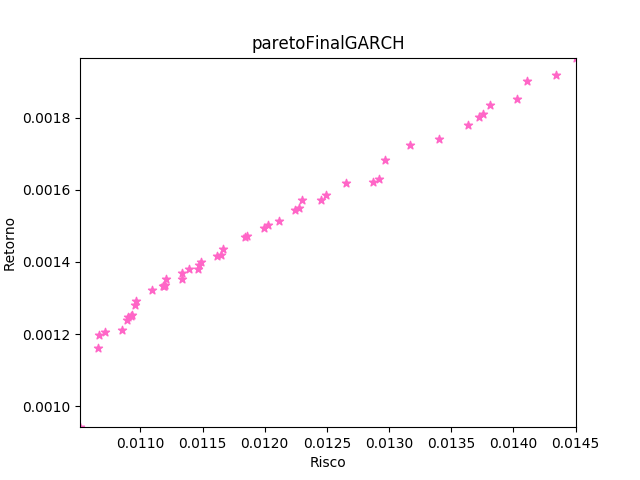
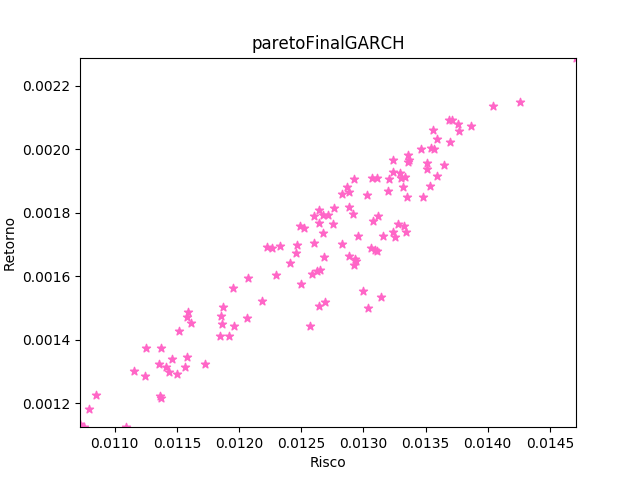
alteracoes nos anos do nsga direto

diff --git a/direto/nsga2.py b/direto/nsga2.py
@@ -148,24 +148,24 @@ class Carteira:
                 
 def inicializa():    
     
-    global listaAtivos_2015_2018
-    global lista_ibovespa_2015_2018
-    global listaAtivos_2019
-    global lista_ibovespa_2019
+    global lista_ativos_2015_2016
+    global lista_ibovespa_2015_2016
+    global lista_ativos_2017_2019
+    global lista_ibovespa_2017_2019
     nomeAtivos = []
     primeira = True
-    flag2019 = False
+    flag2017_2019 = False
 
     with open("ativos.csv", "r+") as f:
         linhas = f.readlines()
-        listaCotacoes_2015_2018 = []
-        listaCotacoes_2019 = []
+        listaCotacoes_2015_2016 = []
+        listaCotacoes_2017_2019 = []
         
         #PERCORRE LINHAS
         for linha in linhas:
             valores = linha.split(",")
-            if(valores[0] == '01/01/2019'):
-                flag2019 = True
+            if(valores[0] == '01/01/2017'):
+                flag2017_2019 = True
                 primeira = True
             j=-1
             #PERCORRE CADA ATIVO
@@ -176,31 +176,31 @@ def inicializa():
                         nomeAtivos.append(nome)
                     else:
                         nomeAtivos.append(valor)
-                elif flag2019:
+                elif flag2017_2019:
                     if primeira:
                         for i in range(len(nomeAtivos)):
-                            listaCotacoes_2019.append([])
+                            listaCotacoes_2017_2019.append([])
                         primeira = False
                     elif(valor != valores[0] )and valor != '-' and valor != '-\n':
-                        listaCotacoes_2019[j].append(float(valor))
+                        listaCotacoes_2017_2019[j].append(float(valor))
                 else:
                     if primeira and valor != 'CODIGOS':
                         for i in range(len(nomeAtivos)):
-                            listaCotacoes_2015_2018.append([])
+                            listaCotacoes_2015_2016.append([])
                         primeira = False
                     elif(valor != valores[0] )and valor != '-' and valor != '-\n':
-                        listaCotacoes_2015_2018[j].append(float(valor))
+                        listaCotacoes_2015_2016[j].append(float(valor))
                 j+=1
                 
 
         for i in range(len(nomeAtivos)):
             codigoAtivo = nomeAtivos[i]
             if(codigoAtivo == "IBOV"):
-                lista_ibovespa_2015_2018 = copy.copy(listaCotacoes_2015_2018[i])
-                lista_ibovespa_2019 = copy.copy(listaCotacoes_2019[i])
+                lista_ibovespa_2015_2016 = copy.copy(listaCotacoes_2015_2016[i])
+                lista_ibovespa_2017_2019 = copy.copy(listaCotacoes_2017_2019[i])
             else:
-                listaAtivos_2015_2018.append(Ativo(codigoAtivo,listaCotacoes_2015_2018[i]))
-                listaAtivos_2019.append(Ativo(codigoAtivo,listaCotacoes_2019[i]))
+                lista_ativos_2015_2016.append(Ativo(codigoAtivo,listaCotacoes_2015_2016[i]))
+                lista_ativos_2017_2019.append(Ativo(codigoAtivo,listaCotacoes_2017_2019[i]))
     
     
     # lista_ativos_semestral = []
@@ -210,14 +210,14 @@ def inicializa():
     # i=0
     # for i in range(8):
     #     lista_ativos_semestral.append([])
-    #     for j in range(len(listaAtivos_2015_2018[0].getCotacoes())):
-    #         lista_ativos_semestral[i] = copy.copy(listaAtivos_2015_2018[][i*123:((i+1)*123)-1])
+    #     for j in range(len(lista_ativos_2015_2016[0].getCotacoes())):
+    #         lista_ativos_semestral[i] = copy.copy(lista_ativos_2015_2016[][i*123:((i+1)*123)-1])
     #         cont_aux = ((i+1)*123)
     #     # index+=1
     
     # i-=1
-    # for j in range(cont_aux, len(listaAtivos_2015_2018)):
-    #     lista_ativos_semestral[i].append(listaAtivos_2015_2018[j])
+    # for j in range(cont_aux, len(lista_ativos_2015_2016)):
+    #     lista_ativos_semestral[i].append(lista_ativos_2015_2016[j])
 
     # print("EAI")
     # print(len(lista_ativos_semestral))
@@ -230,19 +230,19 @@ def populacao_inicial():
     for j in range(TAM_POP):
         carteira = []
         for i in range(CARDINALIDADE):
-            ativo = (listaAtivos_2015_2018[ativo_aux(carteira)], pesoProporcional(carteira,i)) ##### satisfazer a soma dos pesos = 1
+            ativo = (lista_ativos_2015_2016[ativo_aux(carteira)], pesoProporcional(carteira,i)) ##### satisfazer a soma dos pesos = 1
             carteira.append(ativo)
         populacao.append(Carteira(carteira))
 
 
 def grafico_tempo(carteira_cvar, carteira_var, carteira_ewma, carteira_garch, carteira_lpm):
-    global lista_ibovespa_2019
+    global lista_ibovespa_2017_2019
 
-    cotacoes_cvar = calcula_cotacoes_carteira_2019(carteira_cvar)
-    cotacoes_var = calcula_cotacoes_carteira_2019(carteira_var)
-    cotacoes_ewma = calcula_cotacoes_carteira_2019(carteira_ewma)
-    cotacoes_garch = calcula_cotacoes_carteira_2019(carteira_garch)
-    cotacoes_lpm = calcula_cotacoes_carteira_2019(carteira_lpm)
+    cotacoes_cvar = calcula_cotacoes_carteira_2017_2019(carteira_cvar)
+    cotacoes_var = calcula_cotacoes_carteira_2017_2019(carteira_var)
+    cotacoes_ewma = calcula_cotacoes_carteira_2017_2019(carteira_ewma)
+    cotacoes_garch = calcula_cotacoes_carteira_2017_2019(carteira_garch)
+    cotacoes_lpm = calcula_cotacoes_carteira_2017_2019(carteira_lpm)
 
 
     plt.plot(range(len(retorno_acumulado(cotacoes_cvar))),retorno_acumulado(cotacoes_cvar),linestyle = 'solid', color = '#66ffa3', label = 'CVaR')
@@ -251,7 +251,7 @@ def grafico_tempo(carteira_cvar, carteira_var, carteira_ewma, carteira_garch, ca
     plt.plot(range(len(retorno_acumulado(cotacoes_garch))),retorno_acumulado(cotacoes_garch), linestyle = 'dashed', color = '#ffeb57', label = 'GARCH')
     plt.plot(range(len(retorno_acumulado(cotacoes_lpm))),retorno_acumulado(cotacoes_lpm), linestyle = 'dotted',color = '#66c2ff', label = 'LPM')
     
-    plt.plot(range(len(retorno_acumulado(lista_ibovespa_2019))), retorno_acumulado(lista_ibovespa_2019), color = 'black', label = 'Ibovespa')
+    plt.plot(range(len(retorno_acumulado(lista_ibovespa_2017_2019))), retorno_acumulado(lista_ibovespa_2017_2019), color = 'black', label = 'Ibovespa')
     plt.legend()
     plt.xlabel('Tempo')
     plt.ylabel('Retorno acumulado (%)')

diff --git a/direto/aux.py b/direto/aux.py
@@ -83,7 +83,7 @@ def melhor_carteira(pop):
     return carteira
 
 
-def calcula_cotacoes_carteira_2015_2018(carteira):
+def calcula_cotacoes_carteira_2015_2016(carteira):
     numero_cotacoes = len(carteira.getAtivoPeloIndex(0)[0].getCotacoes())
     print(numero_cotacoes)
     matriz = []
@@ -102,17 +102,17 @@ def calcula_cotacoes_carteira_2015_2018(carteira):
     return y
 
 def encontraIndexAtivo(codigo_ativo):
-    global listaAtivos_2019
+    global lista_ativos_2017_2019
     index = 0
-    for i in listaAtivos_2019:
+    for i in lista_ativos_2017_2019:
         if(i.getCodigo() == codigo_ativo):
             return index
         index += 1
         
 
-def calcula_cotacoes_carteira_2019(carteira):
-    global listaAtivos_2019
-    numero_cotacoes = len(listaAtivos_2019[0].getCotacoes())
+def calcula_cotacoes_carteira_2017_2019(carteira):
+    global lista_ativos_2017_2019
+    numero_cotacoes = len(lista_ativos_2017_2019[0].getCotacoes())
     # print(numero_cotacoes)
     matriz = []
     for i in range(carteira.cardinalidade()):
@@ -121,7 +121,7 @@ def calcula_cotacoes_carteira_2019(carteira):
     for index_ativo in range(carteira.cardinalidade()):
         ativo = carteira.getAtivoPeloIndex(index_ativo)
         for cotacao in range(numero_cotacoes):
-            matriz[index_ativo][cotacao] +=  listaAtivos_2019[encontraIndexAtivo(ativo[0].getCodigo())].getCotacoes()[cotacao] * ativo[1]
+            matriz[index_ativo][cotacao] +=  lista_ativos_2017_2019[encontraIndexAtivo(ativo[0].getCodigo())].getCotacoes()[cotacao] * ativo[1]
 
     y = [0]*numero_cotacoes
     for i in range(numero_cotacoes):
@@ -144,7 +144,7 @@ def grafico_risco_retorno(x,y,nome):
 def escolhe_ativo(carteira):
     verifica = True# 
     while(verifica):
-        novoAtivo1 = random.choice(listaAtivos_2015_2018) #gera um ativo novoAtivo1 para substituir o ativo atual
+        novoAtivo1 = random.choice(lista_ativos_2015_2016) #gera um ativo novoAtivo1 para substituir o ativo atual
         for i in carteira.getAtivos():
             if i[0].getCodigo() == novoAtivo1.getCodigo():
                 verifica = False

diff --git a/semestral/grafico.py b/semestral/grafico.py
@@ -19,7 +19,7 @@ def grafico_tempo(carteiras, lista_ativos_proximo_semestre, lista_ibovespa_proxi
     for i in carteiras:
         cotacoes.append(calcula_cotacoes_carteira_prox_semestre(i, lista_ativos_proximo_semestre))
     
-    plt.plot(range(len(retorno_acumulado(cotacoes[0]))),retorno_acumulado(cotacoes[0]),linestyle = 'solid', color = '#6f6fa3', label = 'CVaR')
+    plt.plot(range(len(retorno_acumulado(cotacoes[0]))),retorno_acumulado(cotacoes[0]),linestyle = 'solid', color = '#66ff66', label = 'CVaR')
     plt.plot(range(len(retorno_acumulado(cotacoes[1]))),retorno_acumulado(cotacoes[1]), linestyle = (0, (3, 1, 1, 1)), color = '#ff66c7', label = 'VaR')
     plt.plot(range(len(retorno_acumulado(cotacoes[2]))),retorno_acumulado(cotacoes[2]), linestyle = 'dashdot',color = '#c457ff', label = 'EWMA')
     plt.plot(range(len(retorno_acumulado(cotacoes[3]))),retorno_acumulado(cotacoes[3]), linestyle = 'dashed', color = 'red', label = 'GARCH')
@@ -101,17 +101,17 @@ def grafico_tempo_barras(carteiras_semestre, lista_ativos_proximo_semestre):
 
     rects1 = plt.bar(index, retornos_por_risco[0], bar_width,
     alpha=opacity,
-    color='g',
+    color='#66ff66',
     label='CVaR')
 
     rects2 = plt.bar(index + bar_width, retornos_por_risco[1], bar_width,
     alpha=opacity,
-    color='purple',
+    color='#ff66c7',
     label='VaR')
 
     rects2 = plt.bar(index + bar_width*2 , retornos_por_risco[2], bar_width,
     alpha=opacity,
-    color='b',
+    color='#c457ff',
     label='EWMA')
 
     rects2 = plt.bar(index + bar_width*3, retornos_por_risco[3], bar_width,
@@ -121,7 +121,7 @@ def grafico_tempo_barras(carteiras_semestre, lista_ativos_proximo_semestre):
     
     rects2 = plt.bar(index + bar_width*4, retornos_por_risco[4], bar_width,
     alpha=opacity,
-    color='k',
+    color='#66c2ff',
     label='LPM')
 
     plt.xlabel('Tempo (semestre)')

diff --git a/direto/globais.py b/direto/globais.py
@@ -1,14 +1,14 @@
-TAM_POP = 50
+TAM_POP = 120
 CARDINALIDADE = 9
-ITERACOES = 50
+ITERACOES = 130
 PROBABILIDADE_MUTACAO = 0.1
-EXECUCOES = 1
+EXECUCOES = 30
 QUANTIDADE_ATIVOS = 62
 QUANTIDADE_METRICAS = 5
-listaAtivos_2015_2018 = []
-lista_ibovespa_2015_2018 = []
-listaAtivos_2019 = []
-lista_ibovespa_2019 = []
+lista_ativos_2015_2016 = []
+lista_ibovespa_2015_2016 = []
+lista_ativos_2017_2019 = []
+lista_ibovespa_2017_2019 = []
 populacao = []
 
 ### EWMA

diff --git a/direto/metricas.py b/direto/metricas.py
@@ -86,7 +86,7 @@ def cvar(ativo):
 def metrica_risco(valor):
 
     #calcula o risco e o retorno de cada ativo e atualiza os valores de listaAtivos
-    for i in listaAtivos_2015_2018:
+    for i in lista_ativos_2015_2016:
         if(valor == 0):
             ris = cvar(i.getCotacoes())[1] #[0] = CVaR 95% | [1] = CVaR 99% | [2] = CVaR 99.9%
         elif(valor == 1):
